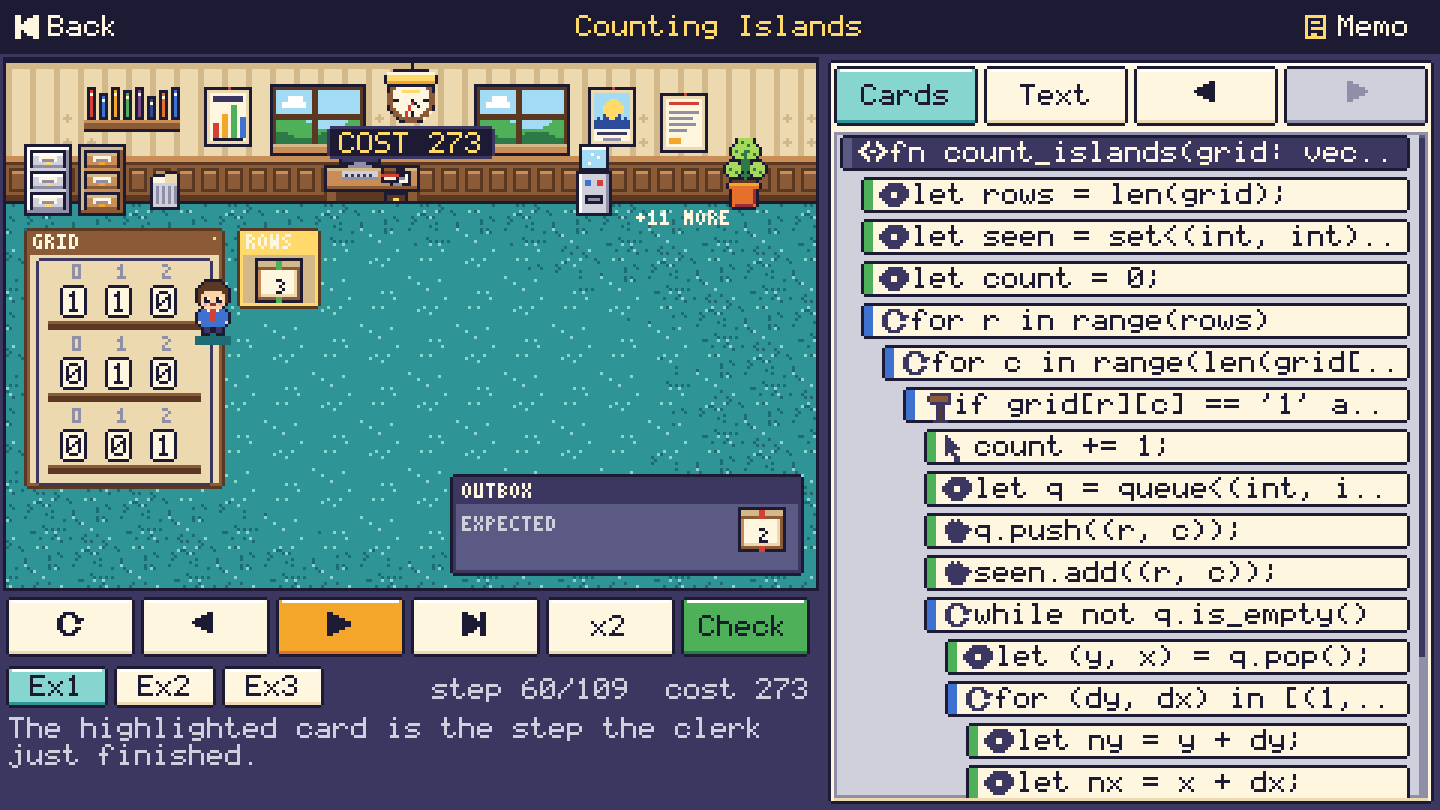
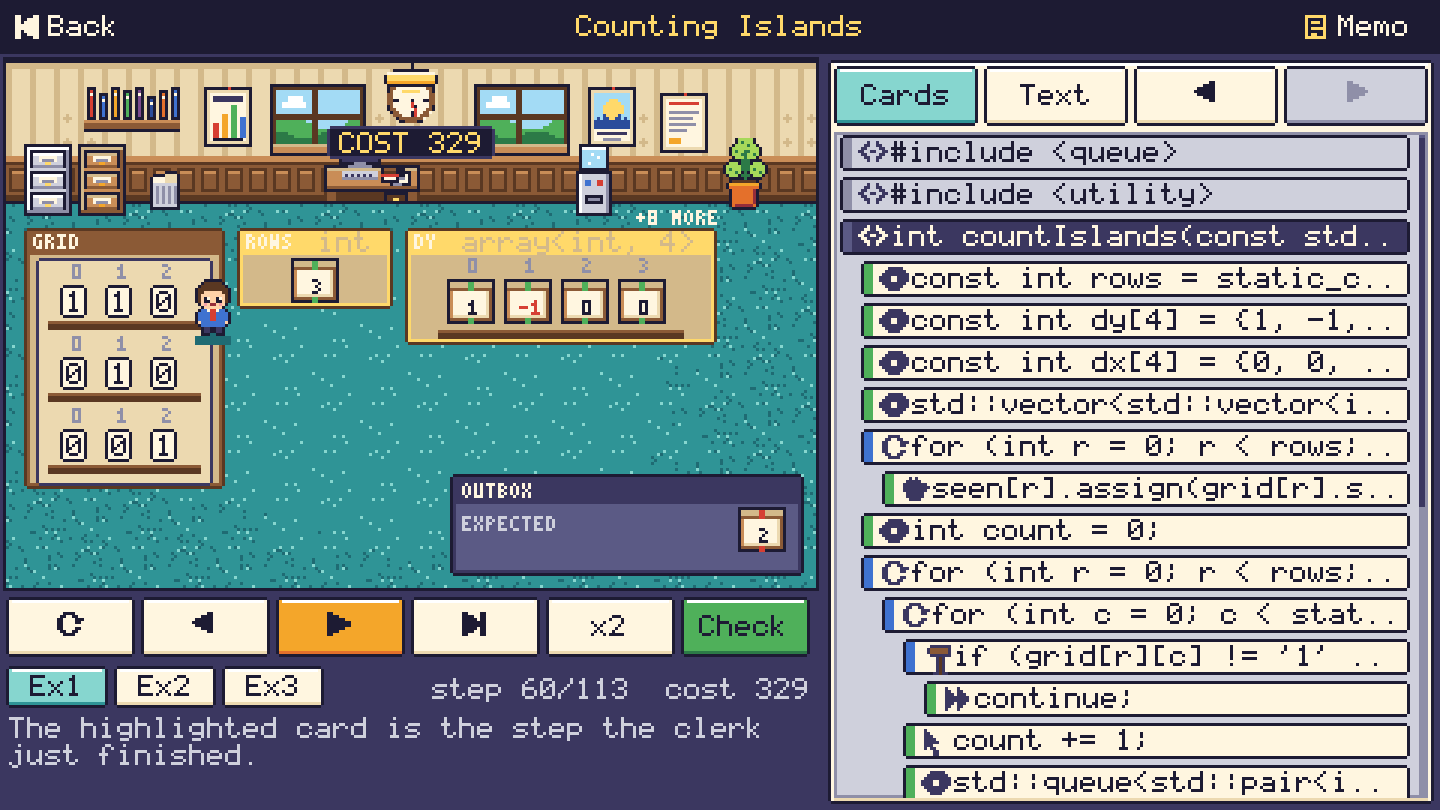
feat(game): session tests, failing-statement highlight, single-button notice, refreshed screenshots and architecture notes

diff --git a/crates/algoclerk-game/src/session.rs b/crates/algoclerk-game/src/session.rs
@@ -7,7 +7,7 @@
 
 use crate::blocks;
 use crate::textedit::TextEdit;
-use algoclerk_core::cpp::ast::{ItemKind, Program, Ty};
+use algoclerk_core::cpp::ast::{ItemKind, Program, Ty, walk_stmts};
 use algoclerk_core::cpp::check::CheckOpts;
 use algoclerk_core::cpp::diag::{Diag, line_col};
 use algoclerk_core::cpp::interp::{Limits, RtError};
@@ -372,13 +372,40 @@ impl Session {
         self.verdict.as_ref()
     }
 
-    /// Statement being executed in the current frame.
+    /// Statement being executed in the current frame. At the end of a run that stopped with an error it is
+    /// the statement holding the failing expression.
     pub fn current_node(&self) -> Option<u32> {
-        self.run
-            .as_ref()
-            .and_then(|r| r.frames.get(r.pos))
-            .map(|f| f.node)
-            .filter(|n| *n != 0)
+        let r = self.run.as_ref()?;
+        if r.pos + 1 >= r.frames.len()
+            && let Err(e) = &r.result
+        {
+            return self.statement_of(e.node);
+        }
+        r.frames.get(r.pos).map(|f| f.node).filter(|n| *n != 0)
+    }
+
+    /// The innermost statement of the compiled program whose text contains the node (a statement is its
+    /// own statement).
+    pub fn statement_of(&self, node: u32) -> Option<u32> {
+        let c = self.compiled.as_ref().ok()?;
+        let target = c.program.span(node)?;
+        let mut best: Option<(u32, u32)> = None;
+        for it in c.program.player_items() {
+            let ItemKind::Func(f) = &it.kind else {
+                continue;
+            };
+            let Some(body) = &f.body else { continue };
+            walk_stmts(body, &mut |st| {
+                if let Some(sp) = c.program.span(st.id)
+                    && sp.start <= target.start
+                    && sp.end >= target.end
+                    && best.is_none_or(|(_, len)| sp.end - sp.start < len)
+                {
+                    best = Some((st.id, sp.end - sp.start));
+                }
+            });
+        }
+        best.map(|(id, _)| id)
     }
 
     /// Block rows of the best known program.
@@ -488,4 +515,120 @@ pub fn parse_with_prelude(prelude: &str, player: &str) -> Result<Program, Vec<Di
         next_id: pl.next_id.max(pre.next_id),
         spans,
     })
+}
+
+#[cfg(test)]
+mod tests {
+    use super::*;
+    use algoclerk_core::cpp::value::render;
+    use algoclerk_levels::Campaign;
+
+    fn level(id: &str) -> Level {
+        Campaign::shipped().find(id).expect("level").clone()
+    }
+
+    #[test]
+    fn the_starter_is_the_signature_with_an_empty_body() {
+        let l = level("two-sum");
+        let s = Session::for_level(&l, "").unwrap();
+        assert_eq!(s.text(), l.starter_code());
+        // the only thing wrong with the empty body is the missing `return`
+        assert_eq!(s.problem().map(|d| d.code), Some("flow.missing-return"));
+        assert_eq!(s.prelude(), l.prelude);
+        assert_eq!(s.entry_name(), "twoSum");
+    }
+
+    #[test]
+    fn a_run_records_frames_with_cpp_types_and_values() {
+        let l = level("two-sum");
+        let mut s = Session::for_level(&l, &l.reference).unwrap();
+        s.start_run().unwrap();
+        let r = s.run.as_ref().unwrap();
+        assert_eq!(r.result.as_deref().ok(), Some("{0, 1}"));
+        assert_eq!(r.expected, "{0, 1}");
+        // first frame: the arguments, with their C++ types
+        let first = &r.frames[0];
+        assert_eq!(first.vars[0].0, "nums");
+        assert_eq!(first.vars[0].1.to_string(), "std::vector<int>");
+        assert_eq!(
+            render(&first.vars[0].2, &first.vars[0].1, &first.heap),
+            "{2, 7, 11, 15}"
+        );
+        // later frames show the map with its C++ type
+        let last = r.frames.last().unwrap();
+        assert!(last.returned.is_some());
+        assert!(
+            last.vars
+                .iter()
+                .any(|(n, t, _)| n == "seen" && t.to_string() == "std::unordered_map<int, int>")
+        );
+        assert!(r.frames.iter().skip(1).all(|f| f.node != 0));
+    }
+
+    #[test]
+    fn list_arguments_travel_with_their_heap() {
+        let l = level("reverse-list");
+        let mut s = Session::for_level(&l, &l.reference).unwrap();
+        s.start_run().unwrap();
+        let r = s.run.as_ref().unwrap();
+        let (name, ty, v) = &r.frames[0].vars[0];
+        assert_eq!(name, "head");
+        assert_eq!(ty.to_string(), "ListNode*");
+        assert_eq!(render(v, ty, &r.frames[0].heap), "{1, 2, 3}");
+    }
+
+    #[test]
+    fn compile_problems_point_at_the_line_and_columns() {
+        let l = level("sum-the-bills");
+        let text = "int sumTheBills(const std::vector<int>& bills) {\n    int total = 0;\n    for (int b : bills) {\n        total += \"1\";\n    }\n    return total;\n}\n";
+        let s = Session::for_level(&l, text).unwrap();
+        let d = s.problem().expect("a type problem");
+        assert!(d.msg.contains("`+=`"), "{}", d.msg);
+        let (line, from, to) = s.problem_span().expect("span");
+        assert_eq!(line, 4);
+        assert!(from >= 8 && to > from && to <= 24, "{from}..{to}");
+        // a parse problem carries its own span
+        let s = Session::for_level(
+            &l,
+            "int sumTheBills(const std::vector<int>& bills) {\n    int total = ;\n}\n",
+        )
+        .unwrap();
+        assert_eq!(s.problem_span().map(|x| x.0), Some(2));
+    }
+
+    #[test]
+    fn a_runtime_error_highlights_its_statement() {
+        let l = level("sum-the-bills");
+        let text = "int sumTheBills(const std::vector<int>& bills) {\n    int total = 0;\n    for (std::size_t i = 0; i <= bills.size(); ++i) {\n        total += bills[i];\n    }\n    return total;\n}\n";
+        let mut s = Session::for_level(&l, text).unwrap();
+        assert!(s.problem().is_none());
+        s.start_run().unwrap();
+        let r = s.run.as_mut().unwrap();
+        assert!(r.result.is_err());
+        r.pos = r.frames.len() - 1;
+        assert_eq!(s.run_error_span().map(|x| x.0), Some(4));
+        let node = s.current_node().expect("the failing statement");
+        assert_eq!(s.node_line(node), Some(4));
+        assert!(s.problem_message().unwrap().contains("out of range"));
+    }
+
+    #[test]
+    fn the_sandbox_runs_its_own_function() {
+        let mut s = Session::sandbox("");
+        assert_eq!(s.entry_name(), "sumAll");
+        s.start_run().unwrap();
+        assert_eq!(s.run.as_ref().unwrap().result.as_deref().ok(), Some("14"));
+    }
+
+    #[test]
+    fn undo_and_redo_follow_the_text() {
+        let l = level("two-sum");
+        let mut s = Session::for_level(&l, "").unwrap();
+        let start = s.text();
+        s.set_text("int x;\n");
+        assert!(s.can_undo() && s.undo());
+        assert_eq!(s.text(), start);
+        assert!(s.redo());
+        assert_eq!(s.text(), "int x;\n");
+    }
 }

diff --git a/crates/algoclerk-game/src/modal.rs b/crates/algoclerk-game/src/modal.rs
@@ -74,6 +74,17 @@ impl Modal {
     /// Handle input.
     pub fn update(&mut self, cx: &Ctx<'_>) -> Answer {
         let (_, yes, no) = Modal::rects(&cx.vp);
+        if self.purpose == Purpose::Notice {
+            let wide = Rect::new(yes.x, yes.y, no.right() - yes.x, yes.h);
+            if cx.ptr.tapped_in(&wide)
+                || cx.input.key(Key::Enter)
+                || cx.input.key(Key::Space)
+                || cx.input.key(Key::Escape)
+            {
+                return Answer::Yes;
+            }
+            return Answer::Open;
+        }
         if cx.ptr.tapped_in(&yes) {
             return Answer::Yes;
         }
@@ -112,6 +123,16 @@ impl Modal {
             11,
             n.min(8),
         );
+        if self.purpose == Purpose::Notice {
+            let wide = Rect::new(yes.x, yes.y, no.right() - yes.x, yes.h);
+            g.button(
+                wide,
+                &self.yes,
+                Kind::Good,
+                widget_state(v.ptr, &wide, true, false),
+            );
+            return;
+        }
         g.button(
             yes,
             &self.yes,

diff --git a/crates/algoclerk-game/src/editor.rs b/crates/algoclerk-game/src/editor.rs
@@ -154,7 +154,13 @@ fn parts(
     } else {
         0
     };
-    let strip_h = if has_strip && tab == Tab::Text { 10 } else { 0 };
+    // the prelude strip only fits when the text keeps at least a few lines
+    let room = area.h - th - 2 - bar_h - kb_h;
+    let strip_h = if has_strip && tab == Tab::Text && room >= 50 {
+        10
+    } else {
+        0
+    };
     let strip = Rect::new(area.x, area.y + th + 2, area.w, strip_h);
     let body = Rect::new(
         area.x,
@@ -1237,7 +1243,7 @@ impl EditorPanel {
             g.tiny(
                 all.right() - 22,
                 all.bottom() + 2,
-                &format!("{}/{}", pop.sel + 1, pop.items.len()),
+                &format!("{} OF {}", pop.sel + 1, pop.items.len()),
                 'k',
             );
         }

diff --git a/crates/algoclerk-game/src/office.rs b/crates/algoclerk-game/src/office.rs
@@ -138,7 +138,7 @@ impl Office {
         let mut hidden = 0;
         for (name, ty, w, changed, param) in items {
             let tyw = ty.chars().count() as i32;
-            let with_ty = if tyw <= 18 {
+            let with_ty = if tyw <= 18 && ty != "?" {
                 name.chars().count() as i32 * 4 + 18 + tyw * 6
             } else {
                 0
@@ -413,7 +413,7 @@ impl Office {
             let used = label.chars().count() as i32 * 4 + 8;
             let room = ((t.rect.w - used - 8) / 6).max(0) as usize;
             let tyw = t.ty.chars().count();
-            if tyw > 0 && tyw <= room {
+            if tyw > 0 && t.ty != "?" && tyw <= room {
                 g.text_r(t.rect.right() - 7, t.rect.y + 1, &t.ty, 'E', 1);
             }
             t.w.draw(

diff --git a/crates/algoclerk-game/src/value_view.rs b/crates/algoclerk-game/src/value_view.rs
@@ -162,7 +162,7 @@ fn is_grid_elem(t: &Ty) -> bool {
 pub fn build(v: &Plain, t: &Ty, heap: &Heap, max_w: i32) -> W {
     match (v, t) {
         (Plain::Uninit, _) => tag("uninit"),
-        (_, Ty::Iter { .. }) => tag("iterator"),
+        (_, Ty::Iter { .. }) | (Plain::Void, Ty::Unknown) => tag("iterator"),
         (Plain::Void, _) => tag("..."),
         (Plain::Int(i), Ty::Bool) => W {
             w: 14,

diff --git a/docs/ARCHITECTURE.md b/docs/ARCHITECTURE.md
@@ -35,13 +35,26 @@ All drawing uses palette letters into a 480x270 (landscape) or 270x480 (portrait
 shell scales it by an integer and letterboxes. Because `algoclerk-game` has no engine types, every screen is
 rendered, laid out and tested without a window (`algoclerk-tools`, `crates/algoclerk-game/tests/ui.rs`).
 
-**Play screen.** The scene (`office.rs`) replays a recorded run: each trace event carries the locals, the scene
-lays them out as labelled trays drawn by `value_view.rs` (crate, letter tile, ribbon, shelf, rack, drawers,
-bin, spring plates, belt, pyramid, tag chain, org chart), sends the clerk to the tray that changed, shows the
-returned value in the outbox with the expected value and a tick or cross stamp, and ticks the wall clock with
-the abstract cost. The editor (`editor.rs`, `blocks.rs`) shows the same program as nested cards or as text.
-The program **text is the source of truth** (`session.rs`): card edits transform the tree and print it back,
-text edits re-parse, undo and redo are text history, so the two views are always in sync.
+**Play screen.** The scene (`office.rs`) replays a recorded run: each trace event carries the visible locals
+(with their C++ types), the scene lays them out as labelled trays drawn by `value_view.rs` (crate, letter tile,
+ribbon, shelf, rack, drawers, bin, spring plates, belt, pyramid, tag chain, org chart for `ListNode*` and
+`TreeNode*`) and writes the type (`vector<int>`) in the tray header when there is room. The clerk walks to the
+tray that changed, the returned value goes to the outbox with the expected value and a tick or cross stamp,
+and the wall clock shows the abstract cost. A runtime error becomes a speech bubble and the failing line is
+highlighted in both editor views (`RtError.node` through `Program.spans`).
+
+The editor (`editor.rs`, `blocks.rs`, `complete.rs`) shows the player's part of the program (the level's
+read-only prelude is summarised in a strip above it and shown in full on the brief) as nested cards or as
+text. The text view colours tokens with `cpp::lexer::highlight` (`syntax.rs`), underlines the problem with the
+clerk's message and offers autocomplete for `std::` names and for the members of the receiver before `.` or `->`
+(`stdlib::members_of` filtered by the unlocked headers and the level's locks; receiver types come from the
+checker's `scope_at` and declarator types). Cards are statements of the C++ tree: tap to edit one as text, move,
+delete, insert; what cards cannot express (`switch`, `do`-`while`, multi-line statements) is a read-only *raw
+C++* card, and every card edit re-prints through `cpp::print`. The program **text is the source of truth**
+(`session.rs`): card edits transform the tree and print it back, text edits re-parse, undo and redo are text
+history, so the two views are always in sync. The code reveal (`result.rs`) has C, C++ and Rust tabs behind
+`result::translations`; C++ shows the player's program, the other two say that the translation is coming until
+the code generators are connected.
 
 **Input.** The shell converts pointer positions to virtual pixels and latches presses between 60 Hz ticks;
 `input.rs` derives taps, drags and long presses. Gamepad support is not wired in the shell.
